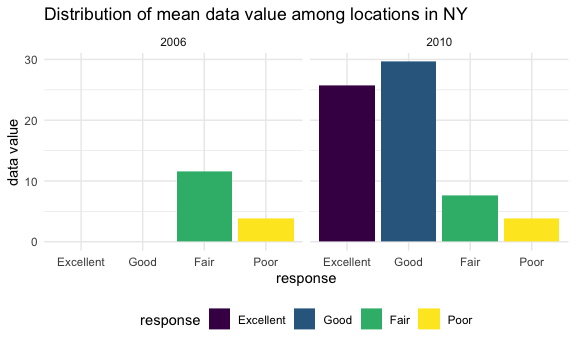
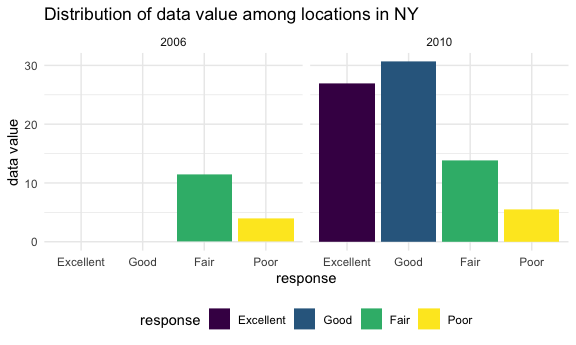
Formatting, removing unneeded packages, cleaning accel dataset for Pr3

diff --git a/p8105_hw3_lcp2148.md b/p8105_hw3_lcp2148.md
@@ -7,44 +7,14 @@ Lydia Parr
 
 # Setup
 
-I will load relevant packages here :3
+First, I load relevant packages and set global preferences.
 
 ``` r
 library(tidyverse)
-```
-
-    ## ── Attaching packages ─────────────────────────────────────── tidyverse 1.3.1 ──
-
-    ## ✓ ggplot2 3.3.4     ✓ purrr   0.3.4
-    ## ✓ tibble  3.1.2     ✓ dplyr   1.0.7
-    ## ✓ tidyr   1.1.3     ✓ stringr 1.4.0
-    ## ✓ readr   1.4.0     ✓ forcats 0.5.1
-
-    ## ── Conflicts ────────────────────────────────────────── tidyverse_conflicts() ──
-    ## x dplyr::filter() masks stats::filter()
-    ## x dplyr::lag()    masks stats::lag()
-
-``` r
 library(p8105.datasets)
 library(httr)
 library(jsonlite)
-```
 
-    ## 
-    ## Attaching package: 'jsonlite'
-
-    ## The following object is masked from 'package:purrr':
-    ## 
-    ##     flatten
-
-``` r
-library(dplyr)
-library(patchwork)
-library(ggplot2)
-library(tidyr)
-library(ggridges)
-
-library(tidyverse)
 
 knitr::opts_chunk$set(
   fig.width = 6,
@@ -242,8 +212,7 @@ brfss =
   janitor::clean_names() %>%
   filter(topic == "Overall Health", 
          response == c("Excellent", "Very Good", "Good", "Fair", "Poor")) %>%
-  mutate(response = factor(response, levels = c("Excellent", "Very Good", "Good", 
-                                                "Fair", "Poor") )) %>%
+  mutate(response = factor(response, levels = c("Excellent", "Very Good", "Good", "Fair", "Poor") )) %>%
   arrange(response) %>% 
   rename(state = locationabbr) %>% 
   select(-c(data_value_footnote, data_value_footnote_symbol, location_id)) %>% 
@@ -357,18 +326,17 @@ distribution of the variable data\_value for responses (“Poor” to
 ``` r
 brfss_final = 
   brfss %>%
-  filter(year == c(2006, 2010),
+  filter((year == "2006" | year == "2010"),
         state == "NY")  %>%
-  group_by(year, response) %>%
-  summarize(mean_dv = mean(data_value, na.rm = TRUE)) %>%
+  group_by(data_value) %>%
   ggplot(aes(x = response,
-             y = mean_dv, 
+             y = data_value, 
              fill = response)) +
   geom_col(position = "dodge") +
   facet_grid(. ~ year) +
   labs(x = "response",
        y = "data value",
-       title = "Distribution of mean data value among locations in NY")
+       title = "Distribution of data value among locations in NY")
 
 brfss_final
 ```
@@ -410,6 +378,18 @@ accel = read_csv(file = "./hw3_data_files/accel_data.csv") %>%
     ##   day = col_character()
     ## )
     ## ℹ Use `spec()` for the full column specifications.
+
+``` r
+accel_cleaned = 
+  accel %>% 
+  pivot_longer(
+    cols = activity_1:activity_1440,
+    names_to = "activity_number",
+    values_to = "activity_counts",
+    names_prefix = "activity.") %>%
+  mutate(
+    weekend = (day == "Saturday" | day == "Sunday"))
+```
 
 Traditional analyses of accelerometer data focus on the total activity
 over the day. Using your tidied dataset, aggregate accross minutes to
